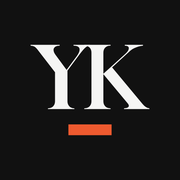
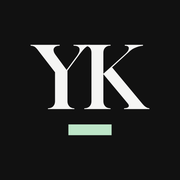
Pastel green palette; remove hero and preview clipart
Claude-Session: https://claude.ai/code/session_01M6UsqjcMnAwnEX4dgh2a23

Changed region(s): [[0.3611, 0.6667, 0.6389, 0.7778]]

diff --git a/public/index.html b/public/index.html
@@ -16,7 +16,7 @@
 <style>
 :root{
   --bg:#F5F5F4; --paper:#FFFFFF; --ink:#111111; --muted:#5B5B5B; --line:#1A1A1A; --soft:#E9E7E4;
-  --orange:#EE5A2F; --blue:#3A86D6; --navy:#2F4F9C; --blush:#F2B8B0; --cream:#FBF4EC; --sage:#8A9A6B; --wall:#E8DCD9;
+  --orange:#3A7A53; --pastel:#BDE5C8; --mint:#86C49A; --blue:#86C49A; --navy:#3A7A53; --blush:#F2B8B0; --cream:#FBF4EC; --sage:#8A9A6B; --wall:#E8DCD9;
   --serif:"Gloock",Georgia,"Times New Roman",serif;
   --sans:"Montserrat",system-ui,-apple-system,"Segoe UI",Roboto,sans-serif;
 }
@@ -43,7 +43,7 @@ a{color:inherit}
 .nav ul a:hover{color:var(--orange)}
 
 /* ---------- HOME ---------- */
-.hero{display:grid;grid-template-columns:1fr 1fr;min-height:min(92vh,820px)}
+.hero{display:grid;grid-template-columns:1fr;min-height:0}
 .hero-text{display:flex;flex-direction:column;justify-content:space-between;padding:clamp(3rem,8vw,6rem) clamp(1rem,5vw,4.5rem) clamp(2.5rem,6vw,5rem)}
 .hero-text .top{text-align:center}
 .hero h1{font-size:clamp(4.25rem,11vw,9.5rem);line-height:.95;margin-top:2.5rem}
@@ -153,7 +153,7 @@ section.page{background:var(--paper);padding:clamp(4rem,9vw,7rem) 0}
 .langs .lv{grid-column:1;font-size:.75rem;color:var(--muted)}
 .langs .dots{grid-column:2;grid-row:1/3;display:flex;gap:4px}
 .langs .dots i{width:9px;height:9px;border-radius:50%;background:var(--soft)}
-.langs .dots i.on{background:var(--orange)}
+.langs .dots i.on{background:var(--mint)}
 .hobbies{display:flex;flex-wrap:wrap;gap:.4rem}
 .hobbies li{font-size:.78rem;padding:.3rem .7rem;border:1px solid var(--soft);background:var(--paper);border-radius:999px}
 
@@ -276,7 +276,7 @@ a.emblem:hover b{color:var(--orange)}
 .gm-head span{font-size:.55rem;font-weight:700;letter-spacing:.14em;text-transform:uppercase;color:var(--muted)}
 .gm-head b{font-family:var(--serif);font-weight:400;font-size:1rem}
 .gm-step{display:grid;grid-template-columns:20px 1fr;gap:8px}
-.gm-step i{width:20px;height:20px;border-radius:50%;background:var(--orange);color:#fff;font-style:normal;font-size:.65rem;font-weight:700;display:flex;align-items:center;justify-content:center}
+.gm-step i{width:20px;height:20px;border-radius:50%;background:var(--pastel);color:var(--ink);font-style:normal;font-size:.65rem;font-weight:700;display:flex;align-items:center;justify-content:center}
 .gm-step em{display:block;height:6px;background:var(--soft);margin:3px 0 5px;width:90%}
 .gm-step em.s{width:60%}
 .gm-shot{height:58px;background:var(--bg);border:1px solid var(--soft);position:relative;margin-top:4px}
@@ -325,7 +325,7 @@ html.v-open{overflow:hidden}
 .v-actions{display:flex;gap:.5rem;align-items:center;flex:none}
 .v-btn{font-size:.68rem;font-weight:600;letter-spacing:.14em;text-transform:uppercase;text-decoration:none;background:var(--ink);color:var(--bg);padding:.55rem .85rem;border:1.5px solid var(--ink);white-space:nowrap}
 .v-btn.ghost{background:transparent;color:var(--ink)}
-.v-btn:hover{background:var(--orange);border-color:var(--orange);color:#fff}
+.v-btn:hover{background:var(--pastel);border-color:var(--pastel);color:var(--ink)}
 .v-close{font:inherit;font-size:1.6rem;line-height:1;width:2.4rem;height:2.4rem;border:0;background:transparent;cursor:pointer;color:var(--ink)}
 .v-close:hover{color:var(--orange)}
 .v-body{flex:1;overflow:auto;padding:1.25rem;display:flex;flex-direction:column;align-items:center;gap:1rem;-webkit-overflow-scrolling:touch}
@@ -390,7 +390,7 @@ a.guide-mock{cursor:pointer}
 .js .rv{opacity:0;transform:translateY(22px);transition:opacity .8s cubic-bezier(.2,.7,.2,1) var(--d,0ms),transform .8s cubic-bezier(.2,.7,.2,1) var(--d,0ms)}
 .js .rv.in{opacity:1;transform:none}
 .js .aboutcard .dots i.on{background:var(--soft);transition:background .35s ease var(--dd,0ms)}
-.js .aboutcard.in .dots i.on{background:var(--orange)}
+.js .aboutcard.in .dots i.on{background:var(--mint)}
 .erp .kpis i{transition:width 1.2s cubic-bezier(.2,.7,.2,1)}
 .st.pop{animation:stpop .5s ease}
 @keyframes stpop{0%{transform:scale(.6);opacity:.2}60%{transform:scale(1.12)}100%{transform:scale(1);opacity:1}}
@@ -463,8 +463,8 @@ a.guide-mock{cursor:pointer}
 .xp{display:grid;grid-template-columns:200px minmax(0,1fr);gap:2.5rem;max-width:900px}
 .xp-tabs{display:flex;flex-direction:column;border-left:2px solid var(--soft);align-self:start}
 .xp-tabs button{font:inherit;font-family:ui-monospace,"SFMono-Regular",Menlo,Consolas,monospace;font-size:.82rem;text-align:left;padding:.85rem 1.2rem;background:transparent;border:0;border-left:2px solid transparent;margin-left:-2px;color:var(--muted);cursor:pointer;white-space:nowrap;transition:color .2s,background .2s,border-color .2s}
-.xp-tabs button:hover{color:var(--orange);background:var(--bg)}
-.xp-tabs button[aria-selected="true"]{color:var(--orange);border-left-color:var(--orange);background:var(--bg)}
+.xp-tabs button:hover{color:var(--orange);background:color-mix(in srgb,var(--pastel) 25%,transparent)}
+.xp-tabs button[aria-selected="true"]{color:var(--orange);border-left-color:var(--orange);background:color-mix(in srgb,var(--pastel) 40%,transparent)}
 .xp-panel h3{font-family:var(--sans);font-weight:600;font-size:1.3rem;line-height:1.3;margin:0}
 .xp-panel .at{color:var(--orange)}
 .xp-meta{font-family:ui-monospace,"SFMono-Regular",Menlo,Consolas,monospace;font-size:.8rem;color:var(--muted);margin:.4rem 0 1rem}
@@ -491,7 +491,7 @@ a.guide-mock{cursor:pointer}
 .skills{display:grid;grid-template-columns:repeat(auto-fill,minmax(270px,1fr));gap:2rem 2.5rem;max-width:1000px}
 .sk-group h3{font-family:ui-monospace,"SFMono-Regular",Menlo,Consolas,monospace;font-size:.8rem;font-weight:400;color:var(--orange);letter-spacing:.04em;margin:0 0 .8rem}
 .sk-group ul{list-style:none;margin:0;padding:0;display:flex;flex-wrap:wrap;gap:.4rem}
-.sk-group li{font-size:.82rem;padding:.3rem .7rem;background:var(--bg);border:1px solid var(--soft);border-radius:999px}
+.sk-group li{font-size:.82rem;padding:.3rem .7rem;background:color-mix(in srgb,var(--pastel) 30%,var(--paper));border:1px solid color-mix(in srgb,var(--pastel) 70%,var(--soft));border-radius:999px}
 /* ---------- CONTACT FORM ---------- */
 .cform{margin-top:2.5rem;display:grid;gap:1rem;max-width:520px}
 .cform h3{font-size:1.5rem;margin-bottom:.2rem}
@@ -501,7 +501,7 @@ a.guide-mock{cursor:pointer}
 .cform input:focus,.cform textarea:focus{outline:none;border-color:var(--ink)}
 .cform .hp{position:absolute;left:-9999px;width:1px;height:1px;opacity:0}
 .cform button{justify-self:start;font:inherit;font-size:.75rem;font-weight:700;letter-spacing:.16em;text-transform:uppercase;padding:.9rem 1.6rem;background:var(--ink);color:var(--bg);border:1.5px solid var(--ink);cursor:pointer}
-.cform button:hover:not(:disabled){background:var(--orange);border-color:var(--orange)}
+.cform button:hover:not(:disabled){background:var(--pastel);border-color:var(--pastel);color:var(--ink)}
 .cform button:disabled{opacity:.6;cursor:wait}
 .cform-err{color:#C0392B;font-size:.85rem;margin:0}
 .toast{position:fixed;left:50%;bottom:2rem;transform:translate(-50%,150%);background:var(--ink);color:var(--bg);padding:1rem 1.4rem;font-size:.95rem;z-index:100;box-shadow:0 10px 30px rgba(0,0,0,.25);display:flex;gap:.7rem;align-items:center;opacity:0;pointer-events:none;transition:transform .4s cubic-bezier(.2,.7,.2,1),opacity .4s;max-width:calc(100vw - 2rem)}
@@ -509,6 +509,8 @@ a.guide-mock{cursor:pointer}
 .toast::before{content:"✓";display:inline-grid;place-items:center;width:1.5rem;height:1.5rem;border-radius:50%;background:#3BA55C;color:#fff;font-size:.85rem;flex:none}
 .toast small{display:block;opacity:.7;font-size:.8rem}
 
+::selection{background:var(--pastel);color:var(--ink)}
+.pf-tabs button[aria-pressed="true"]{background:var(--ink)}
 /* ---------- CONTACT ---------- */
 #contact{background:var(--paper);padding:clamp(4rem,9vw,7rem) 0 clamp(3rem,7vw,5rem);border-top:1px solid var(--soft)}
 #contact h2{font-size:clamp(2.6rem,7vw,5.5rem)}
@@ -619,75 +621,7 @@ footer a{text-decoration:none}
         <a class="caps uline" href="#contact">Contact</a>
       </div>
     </div>
-    <div class="hero-art" aria-hidden="true">
-      <div class="moon"></div>
-      <div class="desk"></div>
-      <div class="vase"></div>
-      <div class="laptop">
-        <div class="lid"><div class="screen">
-          <div class="erp">
-            <div class="erp-side"><b>ERP</b><span class="on">Orders</span><span>Shipments</span><span>Stock</span><span>EDI</span><span>Reports</span></div>
-            <div class="erp-main">
-              <div class="erp-top"><b>Shipments</b><span>Today</span></div>
-              <div class="kpis"><div><small>Received</small><b>Orders</b><i style="width:86%" class="b"></i></div><div><small>Picked</small><b>Warehouse</b><i style="width:64%" class="p"></i></div><div><small>Dispatched</small><b>Carrier</b><i style="width:48%" class="o"></i></div></div>
-              <div class="rows">
-                <div><span>Order · DE</span><em class="st b">Received</em></div>
-                <div><span>Order · EN</span><em class="st p">Picked</em></div>
-                <div><span>Order · eBay</span><em class="st o">Dispatched</em></div>
-                <div><span>Order · DE</span><em class="st s">Delivered</em></div>
-              </div>
-            </div>
-          </div>
-        </div></div>
-        <div class="base"></div>
-      </div>
-    </div>
   </section>
-
-  <div class="wrap">
-    <div class="strip" aria-label="Work preview">
-      <div class="tile t-blue">
-        <div class="hd"><small>JTL-Wawi</small>ERP, every day.</div>
-        <div class="bd">
-          <b>Systems that run <em>on time!</em></b>
-          <div class="pill">Maintenance &amp; operation</div>
-          <div class="pill">Order workflows</div>
-          <div class="pill">Webshop &amp; eBay</div>
-        </div>
-      </div>
-      <div class="phone" aria-label="Webshop mockup">
-        <div class="scr">
-          <div class="shop-hd"><span>RMTEK</span><span>DE · EN</span></div>
-          <div class="shop-hero">Built,<br>launched,<br>selling.</div>
-          <div class="lang">Webshop</div>
-          <div class="shop-grid"><i></i><i></i><i></i><i></i></div>
-        </div>
-      </div>
-      <div class="tile t-orange">
-        <div class="arch">
-          <svg viewBox="0 0 200 120" aria-hidden="true">
-            <path id="arc1" d="M 22 112 A 78 78 0 0 1 178 112" fill="none"/>
-            <text font-family="Montserrat, sans-serif" font-weight="800" font-size="19" letter-spacing="3" fill="#2F4F9C"><textPath href="#arc1" startOffset="50%" text-anchor="middle">TOP PLANNER</textPath></text>
-          </svg>
-          <svg class="crane" viewBox="0 0 64 64" aria-hidden="true" style="position:static;width:34%"><g fill="#2F4F9C"><rect x="8" y="10" width="48" height="5"/><rect x="14" y="15" width="5" height="40"/><rect x="40" y="15" width="5" height="40"/><rect x="26" y="15" width="2" height="16"/><rect x="20" y="31" width="14" height="9"/><rect x="6" y="55" width="52" height="4"/></g></svg>
-          <span class="big">OF THE YEAR</span>
-          <span class="sm">Hutchison Ports Pakistan</span>
-        </div>
-      </div>
-      <div class="t-stack">
-        <div class="tile t-blue">
-          <div class="bd" style="padding-bottom:.4rem"><b style="font-size:.8rem;font-weight:600">Order <em>of the day</em></b></div>
-          <div class="hd" style="font-family:var(--sans);font-size:.85rem;font-weight:600">A new order lands. The warehouse already knows.</div>
-        </div>
-        <div class="t-blush">
-          <small>Automated ERP workflow</small>
-          <b>Dispatch &amp; Ship</b>
-          <div class="mail"><i></i><strong>To: Lager</strong><span>New order, ready to pick</span></div>
-        </div>
-      </div>
-    </div>
-    <p class="see"><a class="caps uline" href="#portfolio" style="padding-inline:clamp(2rem,15vw,12rem)">See my portfolio</a></p>
-  </div>
 
   <!-- ABOUT -->
   <section class="page" id="about" aria-labelledby="bio-title">
